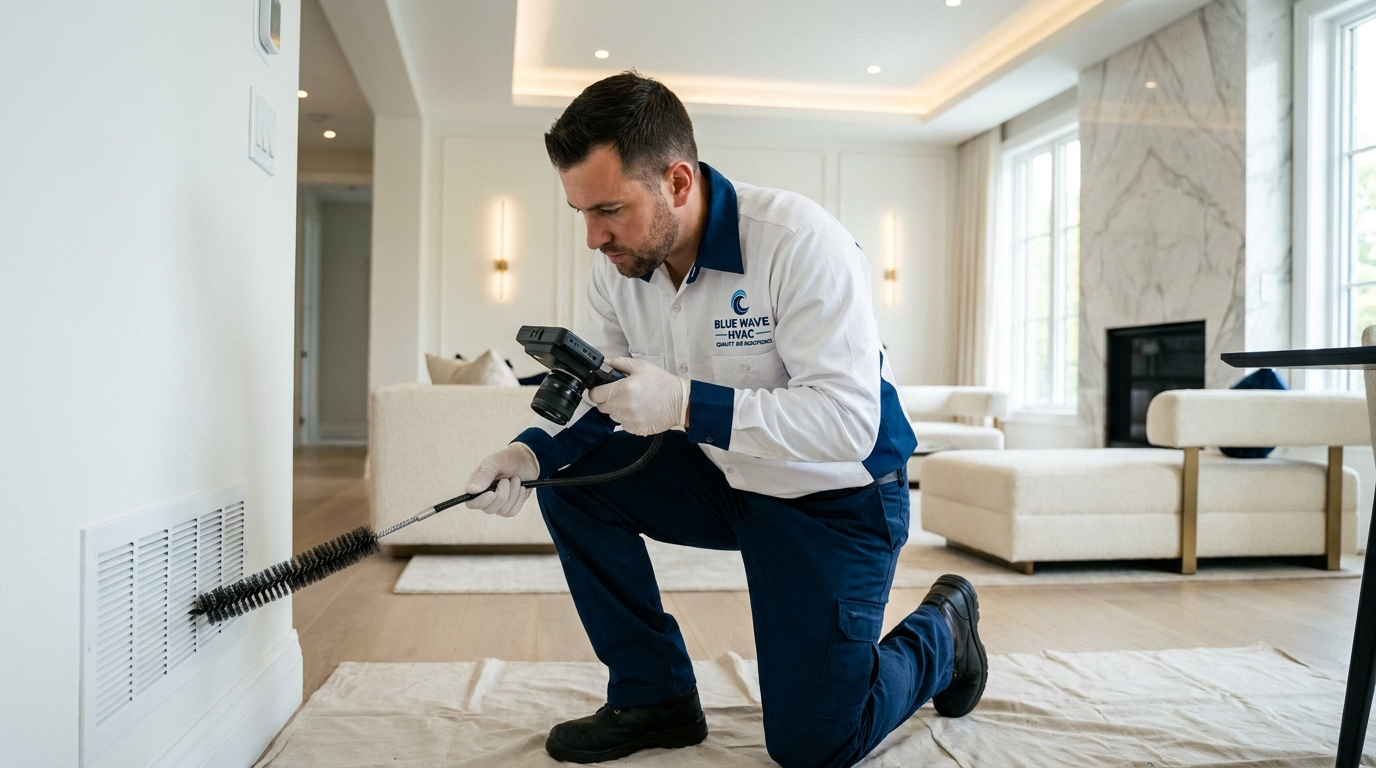
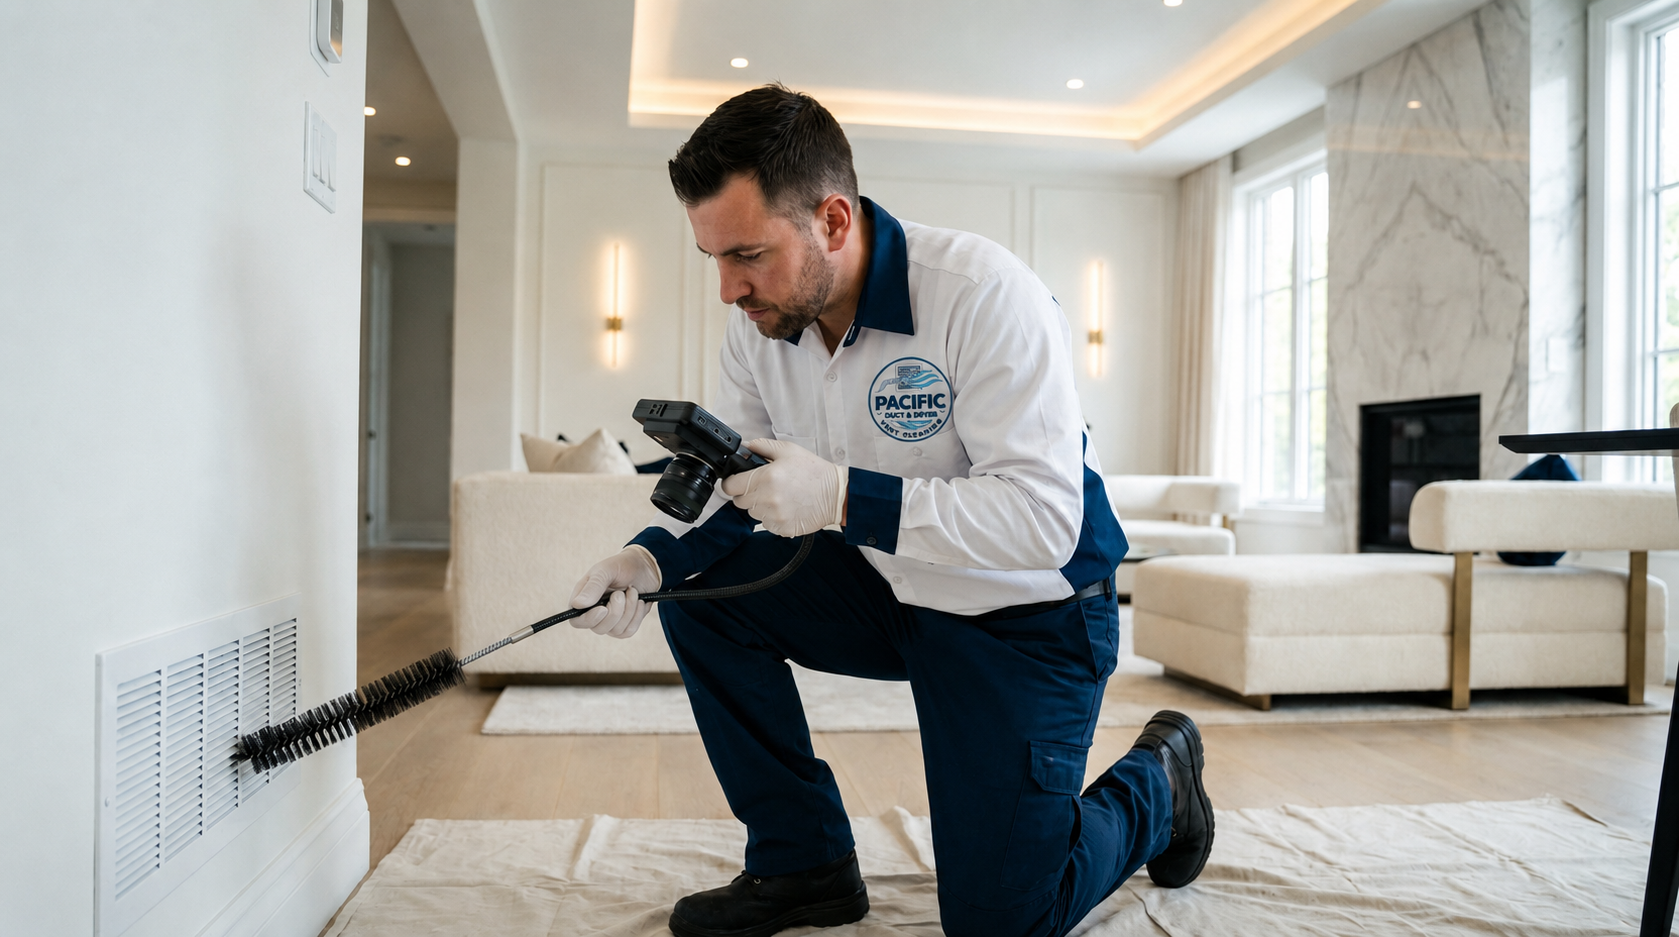
Replace hero photo with correctly branded version, show uncropped
Swap in the new photo with the actual Pacific Duct & Dryer logo on
the technician's uniform (replacing the old unrelated brand). Since
the branding is now correct, removed the tight crop/zoom and show
the full photo as originally intended.

diff --git a/public/index.html b/public/index.html
@@ -2942,7 +2942,7 @@
             >
               <img
                 alt="Technician cleaning an air duct vent"
-                class="w-full aspect-square object-cover origin-[16%_78%] scale-[2.5]"
+                class="w-full h-auto"
                 src="screen.png"
               />
             </div>
@@ -2958,7 +2958,7 @@
             >
               <img
                 alt="Technician cleaning an air duct vent"
-                class="w-full aspect-square object-cover origin-[16%_78%] scale-[2.5]"
+                class="w-full h-auto"
                 src="screen.png"
               />
             </div>
